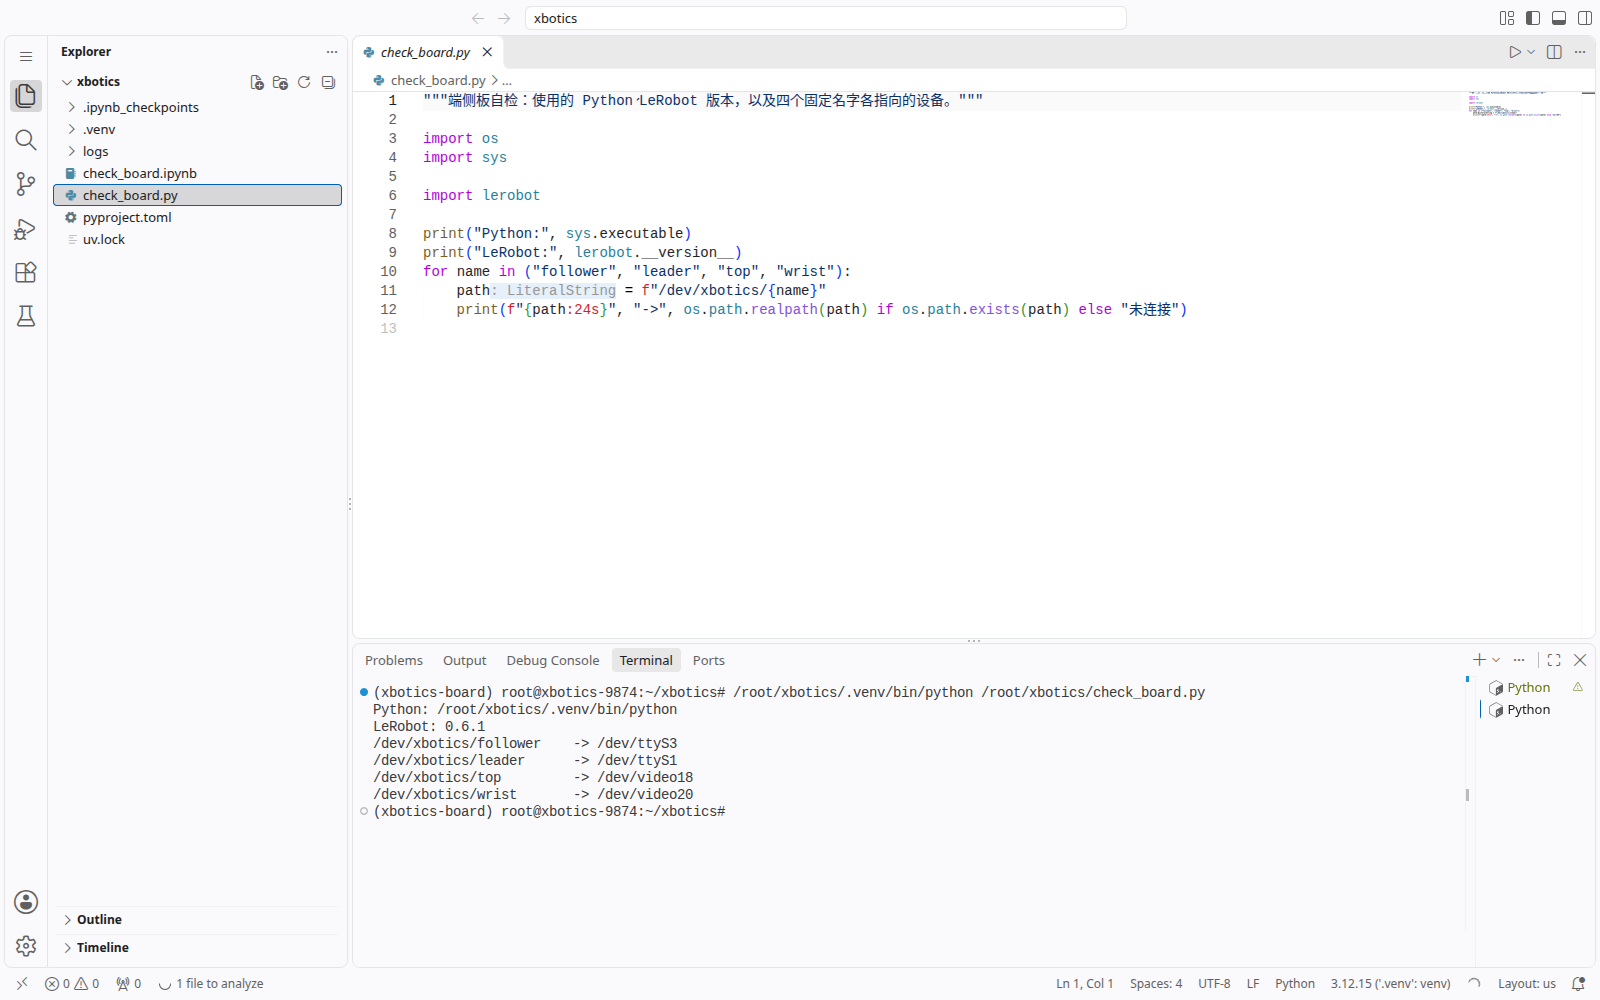
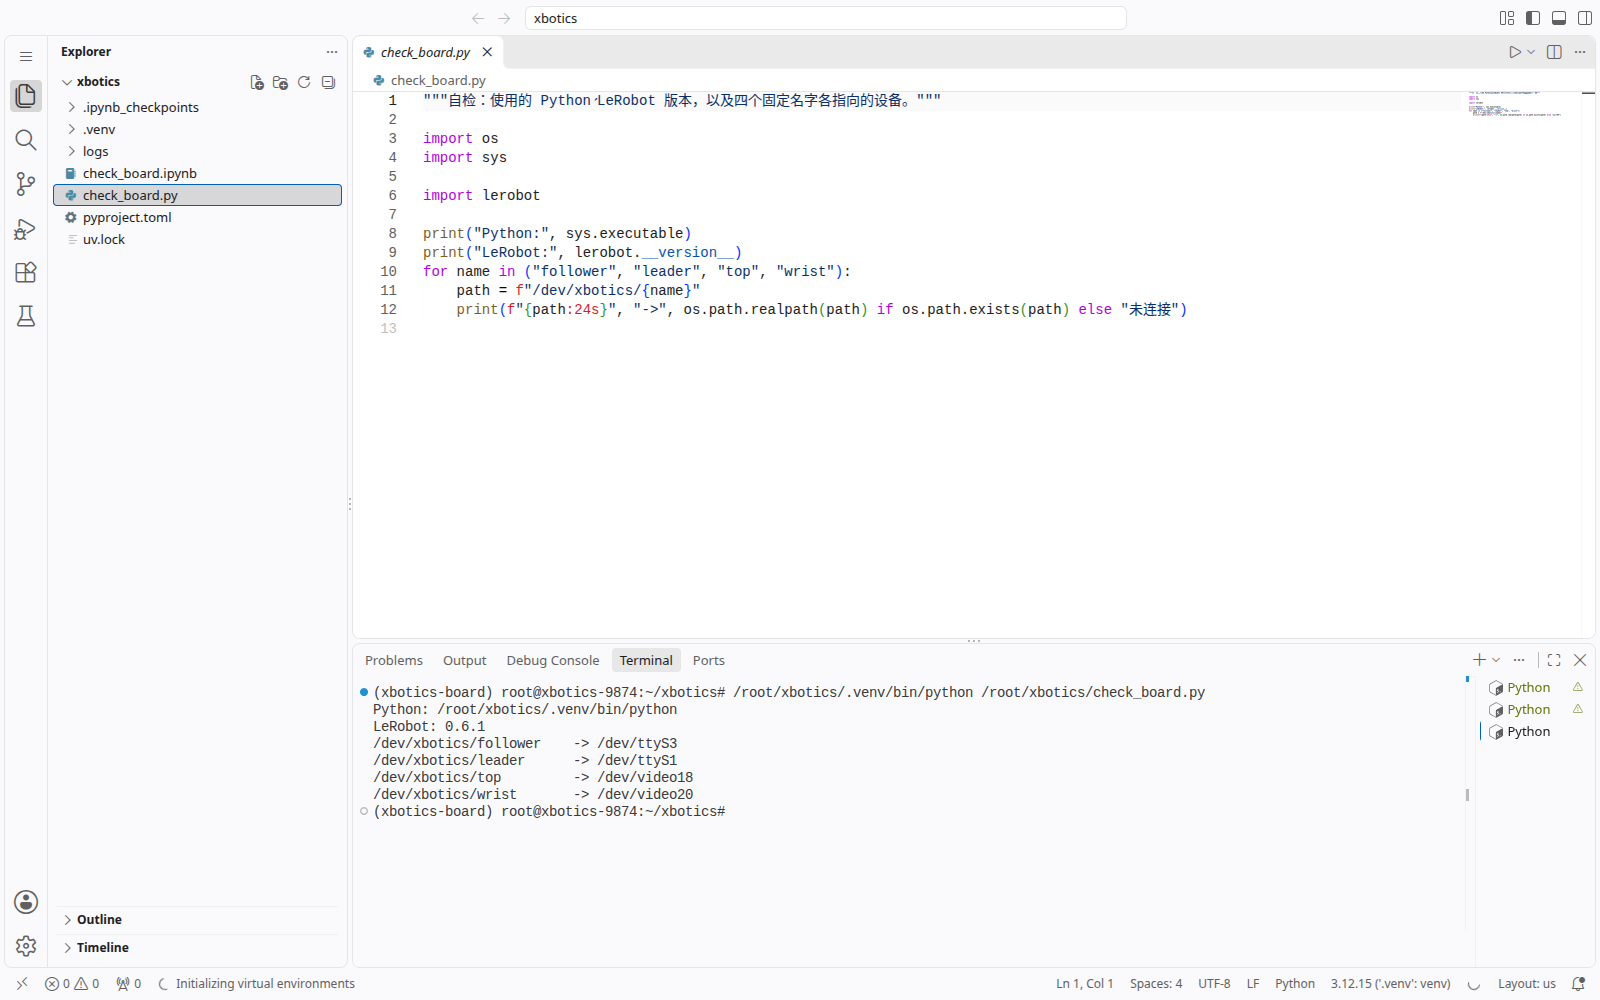
docs: 截图按新界面文字（端侧端口）与新示例代码重拍；3.3 模型路径示例移出表格

diff --git a/docs/deploy.md b/docs/deploy.md
@@ -71,9 +71,15 @@ lerobot-inference-console \
 
 | 参数 | 含义 |
 | --- | --- |
-| `--pretrained_name_or_path` | Hugging Face 上的模型名，或训练电脑上模型目录的绝对路径，例如 `/home/<用户名>/xbotics/outputs/train/<本次训练>/checkpoints/last/pretrained_model`。该路径由训练电脑读取 |
+| `--pretrained_name_or_path` | Hugging Face 上的模型名，或训练电脑上模型目录的绝对路径（见下） |
 | `--policy_type` | 模型的类型，与训练时一致，如 `act`、`smolvla` |
 | `--task` | 任务描述。接受语言指令的模型（如 SmolVLA）据此决定做什么 |
+
+使用自己训练的模型时，`--pretrained_name_or_path` 填写训练电脑上的绝对路径，该路径由训练电脑读取，例如：
+
+```text
+/home/<用户名>/xbotics/outputs/train/<本次训练>/checkpoints/last/pretrained_model
+```
 
 启动后，推理服务加载模型（首次需要下载，耗时稍长），随后机械臂开始按模型的动作运动。在浏览器中打开 `http://<端侧IP>:8007`，即可看到任务状态、动作队列与推理延迟：点击「停止任务」，机械臂停止执行动作，按钮变为「启动任务」，点击即继续；在「任务」框中修改任务描述后点击「更新」，下一次推理即使用新的描述。按网页终端中的 `Ctrl+C` 结束部署。
 
